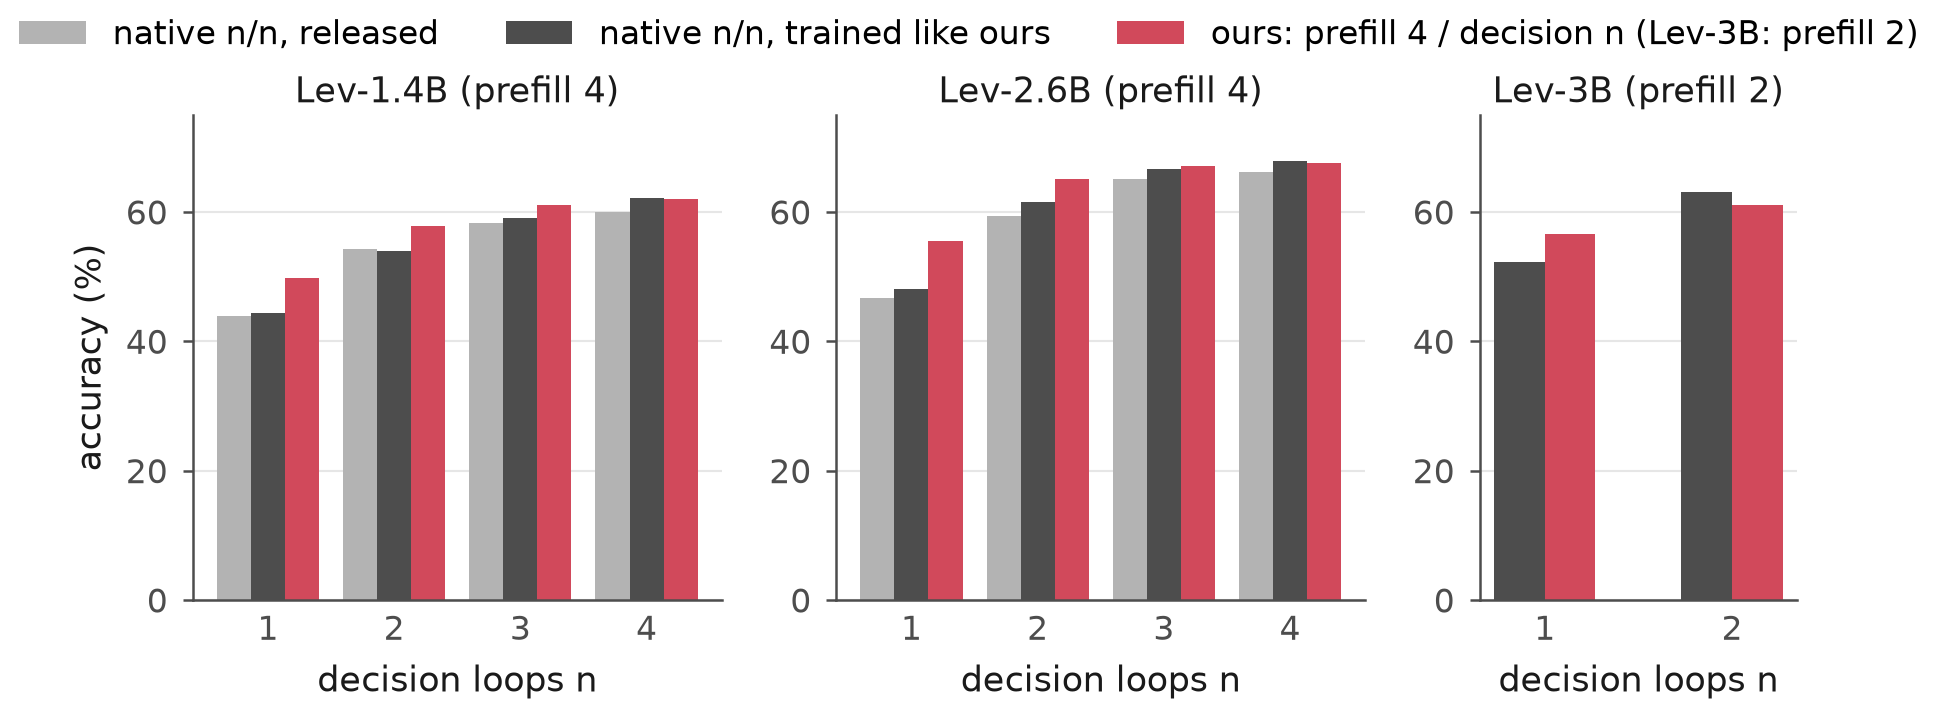
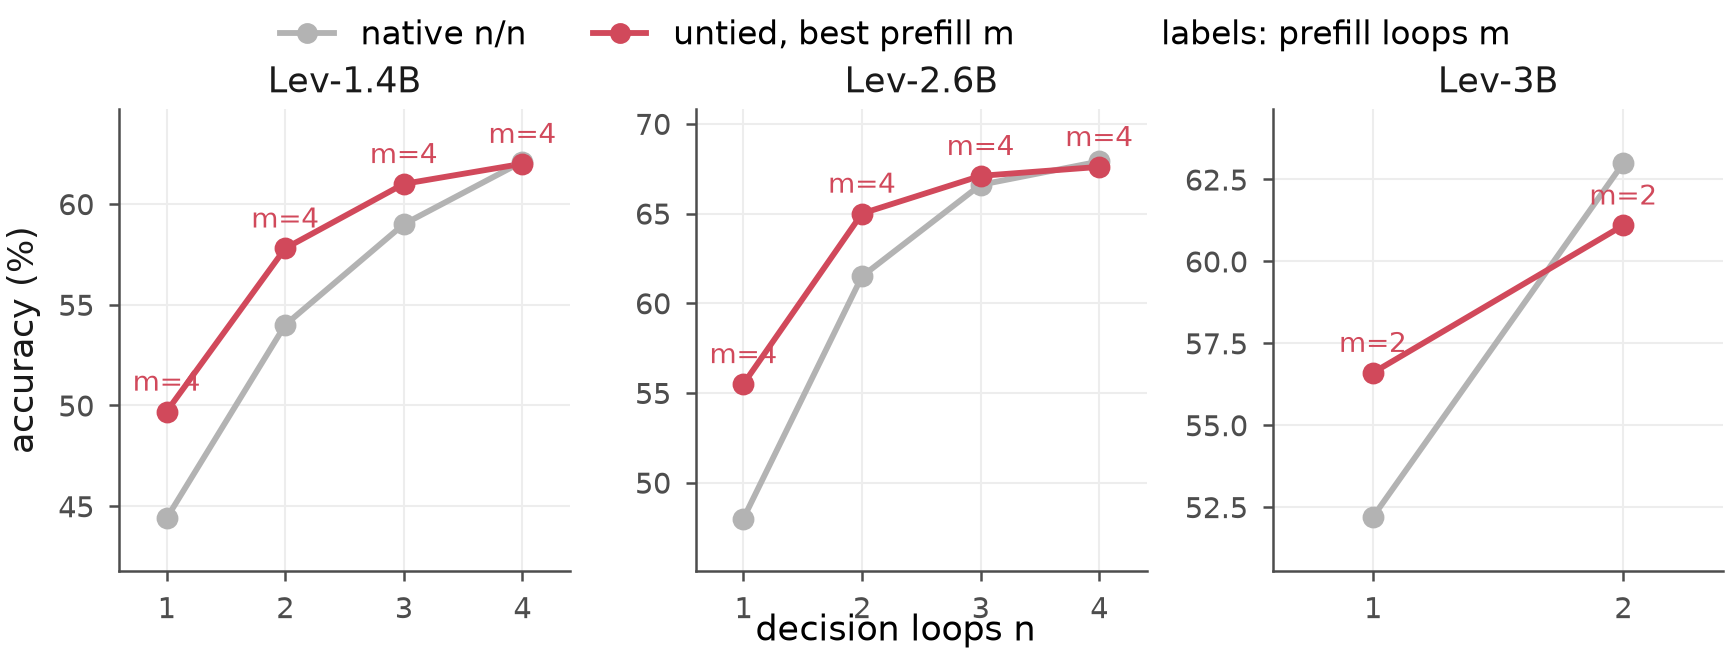
ARR checklist draft; Lev m<n comparisons and frontier-style Lev figure (pending results)

diff --git a/ouro/scripts/paper_figs.py b/ouro/scripts/paper_figs.py
@@ -187,37 +187,30 @@ def fig_pareto():
 
 
 def fig_lev():
-    """Decision models (Lev): accuracy at every number of decision loops n; ours prefills the context with 4 loops
-    (2 on Lev-3B), the natives use n loops for both."""
+    """Decision models (Lev): accuracy against the number of decision loops n. Grey: native n/n continued with the same
+    data and updates as ours; red: the best prefill count m at each n (labels), one continued training per m."""
     L = PN.get("lev", [])
     def series(label, which):
-        pts = sorted((r["depth"], r[which]) for r in L if r["label"] == label)
-        return [p[0] for p in pts], [p[1] for p in pts]
-    models = [m for m in ("Lev-1.4B", "Lev-2.6B", "Lev-3B") if any(r["label"] == f"{m} untied vs same-training control" for r in L)]
-    fig, axes = plt.subplots(1, len(models), figsize=(6.9, 2.1), squeeze=False,
-                             gridspec_kw=dict(width_ratios=[4 if m != "Lev-3B" else 2.4 for m in models]))
+        return {r["depth"]: r[which] for r in L if r["label"] == label}
+    models = [m for m in ("Lev-1.4B", "Lev-2.6B", "Lev-3B") if series(f"{m} untied vs same-training control", "a")]
+    fig, axes = plt.subplots(1, len(models), figsize=(6.9, 2.0), squeeze=False)
     for ax, m in zip(axes[0], models):
-        p = 2 if m == "Lev-3B" else 4
-        d, ours = series(f"{m} untied vs same-training control", "a")
-        _, ctl = series(f"{m} untied vs same-training control", "b")
-        orig = series(f"{m} control vs original", "b")[1] if any(r["label"] == f"{m} control vs original" for r in L) else None
-        x = np.arange(len(d)); w = 0.27
-        bars = ([("native n/n, released", orig, NAT_LIGHT)] if orig else []) + \
-               [("native n/n, trained like ours", ctl, NAT), ("ours: prefill 4 / decision n (Lev-3B: prefill 2)", ours, OURS)]
-        k0 = -(len(bars) - 1) / 2
-        for j, (lab, v, col) in enumerate(bars):
-            ax.bar(x + (k0 + j) * w, v, w, color=col, label=lab)
-        ax.set_xticks(x, [str(n) for n in d], fontsize=8); ax.tick_params(axis="x", length=0)
-        ax.set_ylim(0, 75)
-        ax.set_xlabel("decision loops n", fontsize=8.5)
-        ax.set_title(f"{m} (prefill {p})", fontsize=8.5, color=INK, pad=3)
-        ax.grid(axis="y", color=GRID, lw=0.5); ax.set_axisbelow(True)
-        for sp in ("top", "right"):
-            ax.spines[sp].set_visible(False)
+        top = 2 if m == "Lev-3B" else 4
+        by_m = {top: series(f"{m} untied vs same-training control", "a")}
+        by_m.update({k: series(f"{m} prefill {k} vs same-training control", "a") for k in range(1, top)})
+        by_m = {k: v for k, v in by_m.items() if v}
+        nat = series(f"{m} untied vs same-training control", "b")
+        ns = sorted(nat)
+        ours = []
+        for n in ns:
+            best = max((v[n], k) for k, v in by_m.items() if n in v)
+            ours.append((n, best[0], f"m={best[1]}"))
+        frontier(ax, [(n, nat[n], "") for n in ns], ours, m)
+        ax.set_xticks(ns); ax.set_xlim(ns[0] - 0.4, ns[-1] + 0.4)
     axes[0][0].set_ylabel("accuracy (%)", fontsize=8.5)
-    h, l = axes[0][0].get_legend_handles_labels()
-    fig.legend(h, l, loc="upper center", ncol=3, fontsize=8, bbox_to_anchor=(0.5, 1.08), frameon=False)
-    fig.subplots_adjust(wspace=0.25)
+    fig.supxlabel("decision loops n", fontsize=8.5, y=-0.02)
+    legend(fig, "untied, best prefill m", "labels: prefill loops m", y=1.08)
+    fig.subplots_adjust(wspace=0.28)
     save(fig, "fig_lev")
 
 

diff --git a/ouro/scripts/paper_numbers.py b/ouro/scripts/paper_numbers.py
@@ -461,7 +461,11 @@ LEV_CMP = [("Lev-1.4B untied vs same-training control", "rd4-1.4B-read4", "ctl-1
            # costs about twice the control's per update)
            ("Lev-1.4B untied vs control trained 2x", "rd4-1.4B-read4", "ctl2x-1.4B-read0"),  # d=1: +4.0 [2.1, 6.0]
            ("Lev-2.6B untied vs control trained 2x", "rd4-2.6B-read4", "ctl2x-2.6B-read0"),
-           ("Lev-3B untied vs control trained 2x", "rd2-3B-read2", "ctl2x-3B-read0")]
+           ("Lev-3B untied vs control trained 2x", "rd2-3B-read2", "ctl2x-3B-read0"),
+           # the other direction: fewer prefill loops (m < n), one continued training per prefill count m (lev_mn.sh)
+           *[(f"{m} prefill {k} vs same-training control", f"rd{k}-{s}-read{k}", f"ctl-{s}-read0")
+             for m, s, ks in (("Lev-1.4B", "1.4B", (1, 2, 3)), ("Lev-2.6B", "2.6B", (1, 2, 3)), ("Lev-3B", "3B", (1,)))
+             for k in ks]]
 
 
 def lev():

diff --git a/paper/ARR_CHECKLIST.md b/paper/ARR_CHECKLIST.md
@@ -1,0 +1,47 @@
+# ARR Responsible NLP checklist — draft answers
+
+Target: ACL 2027 via ARR, submission deadline 2027-01-04 (AoE). Fill these into the OpenReview form; section
+references are to `paper/latex/main.tex` (review version). Items marked **TODO** need the author's decision.
+
+## A. For every submission
+- **A1 Limitations.** Yes: the unnumbered "Limitations" section after the Conclusion.
+- **A2 Potential risks.** Yes, briefly: the method changes inference compute of existing open checkpoints and adds no
+  new capabilities or data; risks are those of the underlying models. **TODO:** add one sentence to Limitations if
+  the form requires it in the paper.
+
+## B. Did you use or create scientific artifacts?
+Yes. Models: Ouro-1.4B/2.6B (+Thinking), SenseNova-Loop-9B-Preview, Nanbeige4.2-3B-Base, Lev decision models.
+Benchmarks: MMLU, MMLU-Pro, ARC-Challenge, GPQA-Diamond, BBH, IFEval, GSM8K, MATH-500, HumanEval, MBPP+, RULER, HELMET,
+LevBench (development set only). Training data: OpenThoughts, Tulu SFT, LongAlpaca, FineWeb-Edu, Lev's S31 subset.
+- **B1 Cite creators.** Yes (Section 4 setup, Appendix A, B).
+- **B2 Licenses.** **TODO:** list each artifact's license in Appendix B (Ouro code is Apache-2.0, see
+  `third_party/ouro/LICENSE`; our code is MIT). Check the model cards for the others.
+- **B3 Intended use.** Yes: all artifacts are used for research evaluation, consistent with their terms; GPQA questions
+  are not redistributed (only per-item scores keyed by index), and LevBench's locked test split is never evaluated.
+- **B4 Personal information / offensive content.** N/A: public benchmarks and corpora; no new data collected.
+- **B5 Documentation of artifacts.** Yes: README, REPRODUCE.md, per-item scores.
+- **B6 Statistics.** Yes: item counts per benchmark (Appendix B; Table 1 and figure captions).
+
+## C. Did you run computational experiments?
+- **C1 Model size and compute.** Parameters: Section 4 / Appendix A (rank-16 LoRA, 63M trainable on Ouro-2.6B). GPU type:
+  NVIDIA B300. Training time: 6.75 h on 4 GPUs for the Ouro-2.6B adapter (Appendix A). **TODO:** total GPU hours of all
+  runs (sum the training and evaluation logs; state an estimate in Appendix A).
+- **C2 Hyperparameters.** Yes: Appendix A (optimiser, schedule, batch, tokens); no hyperparameter search.
+- **C3 Descriptive statistics.** Yes: paired bootstrap 95% intervals (5,000 resamples, seed 0) everywhere; training-seed
+  robustness in Appendix C; single runs otherwise, stated.
+- **C4 Existing packages.** Yes: lm-evaluation-harness (with versions in `environments/ouro`), math-verify,
+  FlashAttention, Hugging Face transformers.
+
+## D. Human annotators / participants
+- No (D1–D5 N/A).
+
+## E. AI assistants in research or writing
+- **E1.** Yes. **TODO (author's wording):** e.g. "We used AI assistants (Claude, Codex) for writing and running
+  experiment code, for drafting and editing text, and for internal review of claims. All results are recomputed from
+  released per-item scores by the released script; the authors checked every claim."
+
+## Anonymity for review
+- The review PDF says "Anonymous ACL submission"; the arXiv build adds the author and repository link.
+- **TODO:** the code link for review must be anonymous (e.g. an anonymized mirror of this repository); the public
+  repository name and the README author line would de-anonymize. Do not post the arXiv version during the ARR
+  anonymity period if the target cycle forbids it (check the cycle's preprint policy).
